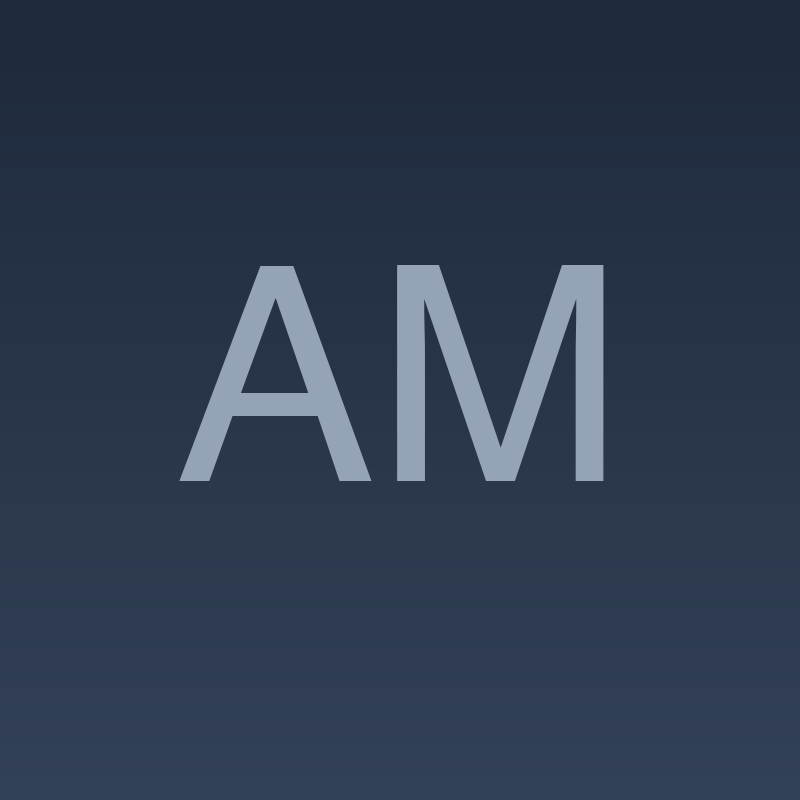
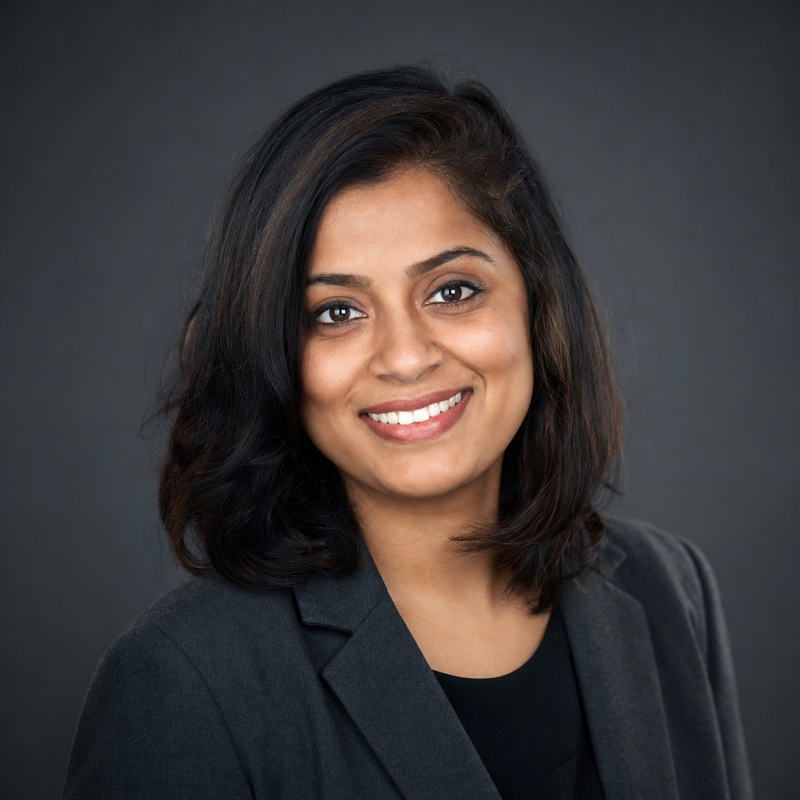
chore: anonymise demo with distinct persona + AI headshot

diff --git a/assets/js/main.js b/assets/js/main.js
@@ -1,5 +1,5 @@
 /* =========================================================================
-   Alex Morgan — JSON-driven portfolio
+   Priya Nair — JSON-driven portfolio
    Vanilla ES6+. No frameworks.
    ========================================================================= */
 (() => {

diff --git a/index.html b/index.html
@@ -25,7 +25,7 @@
   <!-- ============ NAV ============ -->
   <header class="site-header">
     <nav class="nav" aria-label="Primary">
-      <a id="nav-brand" class="nav-brand mono" href="#home">Alex.Morgan</a>
+      <a id="nav-brand" class="nav-brand mono" href="#home">Priya.Morgan</a>
 
       <button id="nav-toggle" class="nav-toggle" aria-label="Toggle navigation menu" aria-expanded="false" aria-controls="nav-menu">
         <span class="nav-toggle-bar" aria-hidden="true"></span>